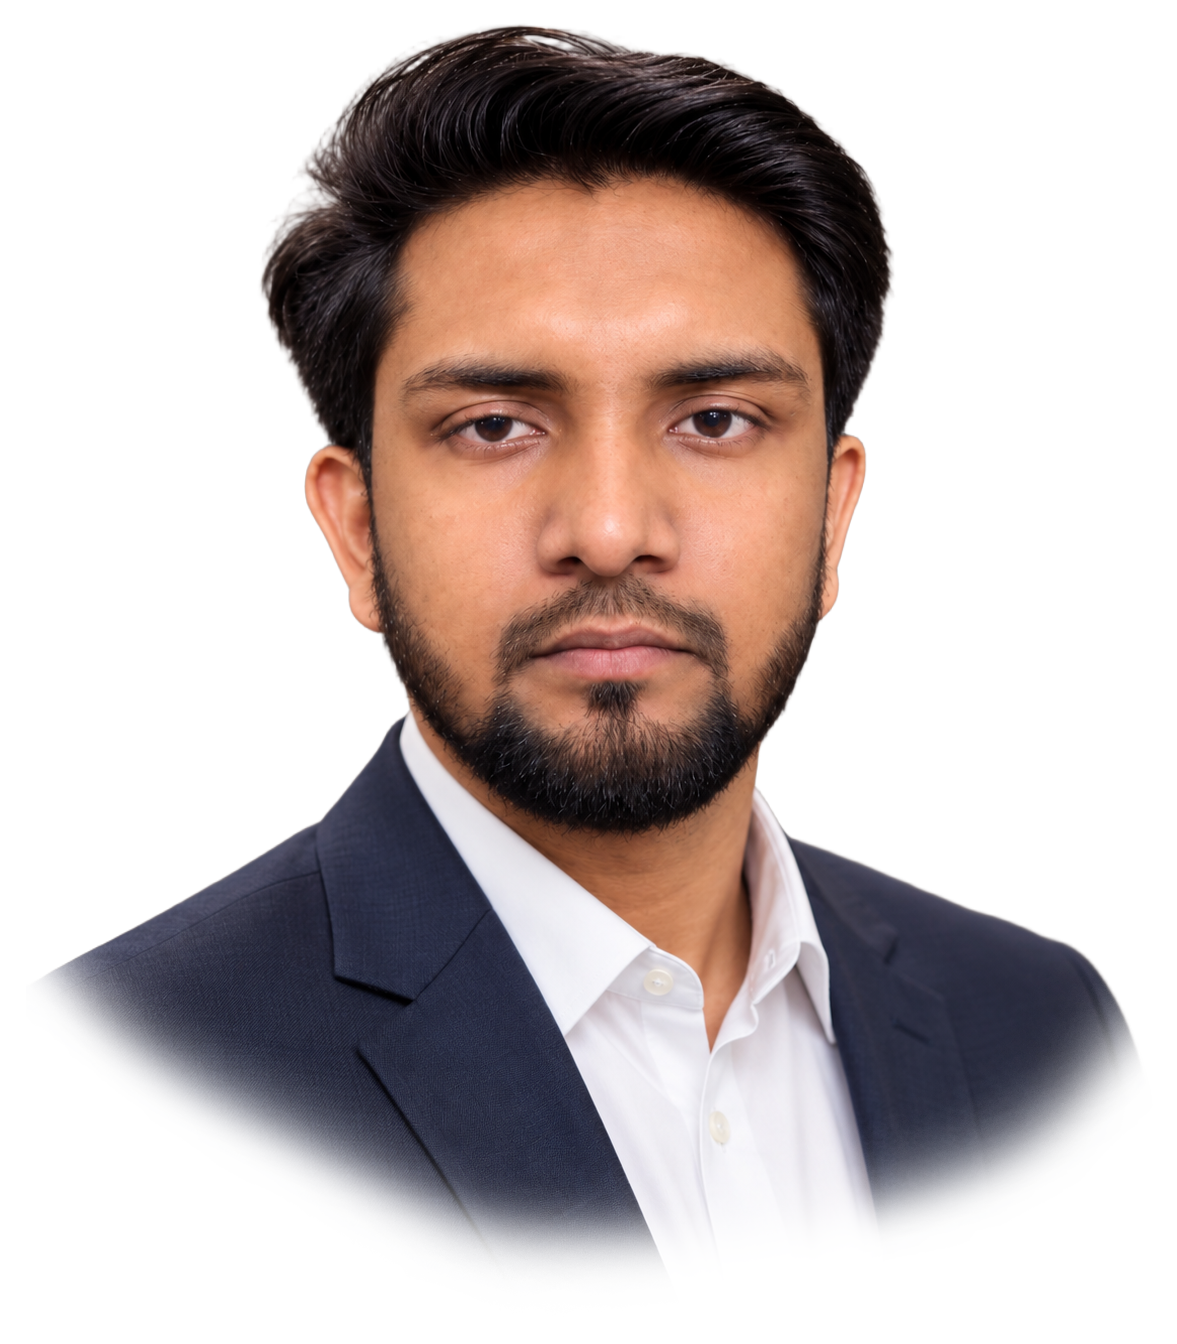
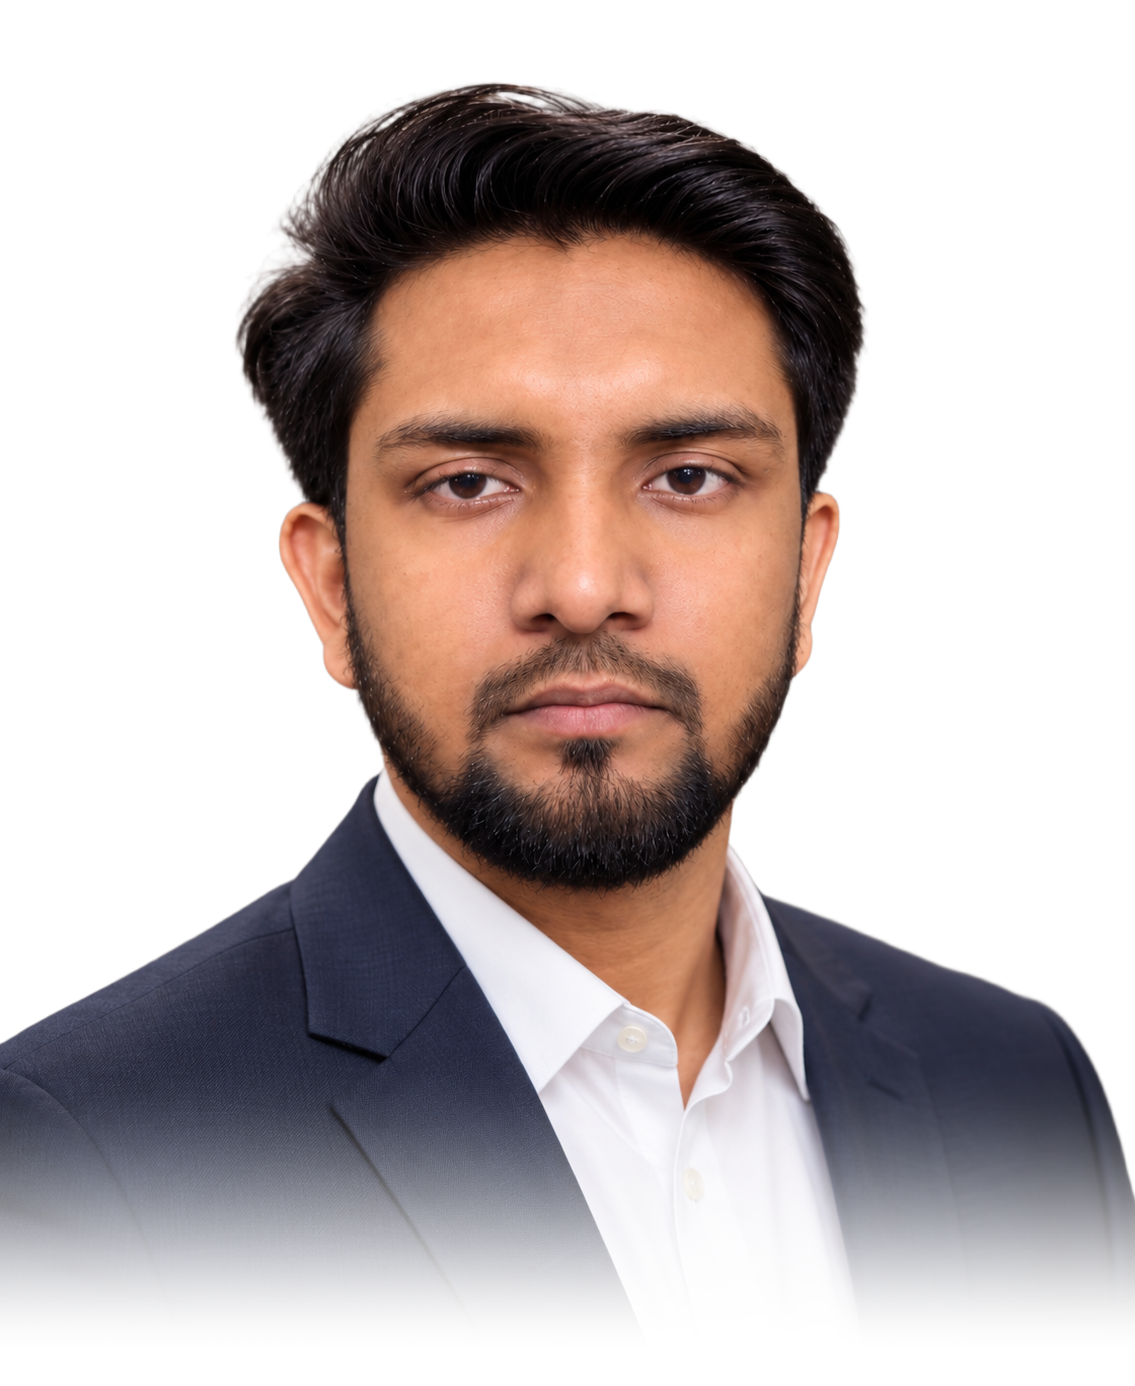
V1.0

diff --git a/style.css b/style.css
@@ -98,12 +98,12 @@ body.is-loading > :not(.loader):not(.skip-link){visibility:hidden}
 .brand{color:var(--text);text-decoration:none;font:700 20px Space Grotesk,sans-serif;letter-spacing:-.03em}
 .brand span{color:var(--cyan)}
 .header-actions,.site-nav{display:flex;align-items:center}
-.site-nav a{
+.site-nav :is(a,button){
   padding:9px 8px;color:var(--muted);text-decoration:none;
   font:700 9px Space Grotesk,sans-serif;letter-spacing:.08em;
   white-space:nowrap;transition:color .2s ease;
 }
-.site-nav a:hover,.site-nav a.active{color:var(--cyan)}
+.site-nav :is(a,button):hover,.site-nav :is(a,button).active{color:var(--cyan)}
 .site-nav i{width:18px;height:1px;background:linear-gradient(90deg,rgba(105,217,255,.2),rgba(105,217,255,.7))}
 .theme-toggle{
   width:38px;height:38px;margin-left:12px;border:1px solid var(--line);border-radius:50%;
@@ -267,7 +267,7 @@ footer{
   .brand{font-size:14px}
   .theme-toggle{width:31px;height:31px;margin-left:5px}
   .theme-toggle svg{width:15px;height:15px}
-  .site-nav a{padding:6px 3px;font-size:6.8px;letter-spacing:.035em}
+  .site-nav :is(a,button){padding:6px 3px;font-size:6.8px;letter-spacing:.035em}
   .site-nav i{width:5px}
   .section{padding:84px 0}
   .section-heading{margin-bottom:25px}
@@ -287,7 +287,7 @@ footer{
 }
 @media(max-width:430px){
   .container{width:calc(100% - 34px)}
-  .site-nav a{font-size:6.2px;padding-inline:2px}
+  .site-nav :is(a,button){font-size:6.2px;padding-inline:2px}
   .site-nav i{width:3px}
   .hero{padding-top:94px}
   .hero h1{font-size:clamp(49px,15.5vw,68px)}
@@ -518,7 +518,7 @@ body.light .hero-photo{filter:none!important}
 .hero-copy{padding-left:clamp(0px,1vw,18px)!important}
 
 /* Navigation readability + FIVERR label. */
-.site-nav a{font-size:10.5px!important;letter-spacing:.075em!important;padding-inline:9px!important}
+.site-nav :is(a,button){font-size:10.5px!important;letter-spacing:.075em!important;padding-inline:9px!important}
 
 /* No arrow UI. */
 .case-study-link{gap:0!important}
@@ -555,10 +555,10 @@ body.light .hero-photo{filter:none!important}
  .hero-copy{padding-left:0!important}
  .hero-photo-wrap{justify-content:center!important}
  .hero-photo{width:min(82vw,500px)!important}
- .site-nav a{font-size:8.4px!important;padding-inline:4px!important}
+ .site-nav :is(a,button){font-size:8.4px!important;padding-inline:4px!important}
 }
 @media(max-width:430px){
- .site-nav a{font-size:7.4px!important;letter-spacing:.035em!important;padding-inline:2px!important}
+ .site-nav :is(a,button){font-size:7.4px!important;letter-spacing:.035em!important;padding-inline:2px!important}
  .site-nav i{width:4px!important}
  .gig-topline{align-items:center;gap:10px}
  .gig-availability{font-size:7.5px}
@@ -569,7 +569,7 @@ body.light .hero-photo{filter:none!important}
 html,body,a,button,[role="button"],.brand,.site-nav,.site-nav *,.hero,.hero *{
   -webkit-tap-highlight-color:transparent;
 }
-.brand,.site-nav a,.hero h1,.hero h1 *,.hero-kicker{
+.brand,.site-nav :is(a,button),.hero h1,.hero h1 *,.hero-kicker{
   -webkit-touch-callout:none;
   -webkit-user-select:none;
   user-select:none;
@@ -578,6 +578,51 @@ a:focus:not(:focus-visible),button:focus:not(:focus-visible),[role="button"]:foc
   outline:none;
 }
 a:focus-visible,button:focus-visible,[role="button"]:focus-visible{
+  outline:2px solid currentColor;
+  outline-offset:4px;
+}
+
+/* Mobile interaction hardening: no tap rectangle, no accidental text-selection flash. */
+*{
+  -webkit-tap-highlight-color:transparent;
+}
+.site-nav button{
+  appearance:none;
+  -webkit-appearance:none;
+  border:0;
+  margin:0;
+  padding:0;
+  background:none;
+  color:inherit;
+  font:inherit;
+  letter-spacing:inherit;
+  cursor:pointer;
+}
+.site-header,
+.site-header *,
+.hero h1,
+.hero h1 *,
+.hero-kicker,
+.loader,
+.loader *,
+.section-kicker,
+.section-title,
+.section-title *{
+  -webkit-touch-callout:none;
+  -webkit-user-select:none;
+  user-select:none;
+}
+.site-nav button:active,
+.site-nav button:focus:not(:focus-visible),
+.brand:active,
+.hero h1:active,
+.hero h1 *:active,
+.loader:active,
+.loader *:active{
+  outline:none;
+  box-shadow:none;
+}
+.site-nav button:focus-visible{
   outline:2px solid currentColor;
   outline-offset:4px;
 }

diff --git a/index.html b/index.html
@@ -101,11 +101,11 @@
 <div class="brand" aria-label="Nazmul Islam Fahim">NAZMUL<span>.</span></div>
 <div class="header-actions">
 <nav aria-label="Primary navigation" class="site-nav">
-<a data-nav="home" href="./" data-scroll-target="home">HOME</a><i></i>
-<a href="./" data-scroll-target="portfolio">PORTFOLIO</a><i></i>
-<a href="./" data-scroll-target="fiverr">FIVERR</a><i></i>
-<a href="./" data-scroll-target="about">ABOUT</a><i></i>
-<a href="./" data-scroll-target="contact">CONTACT</a>
+<button type="button" data-nav="home"  data-scroll-target="home">HOME</button><i></i>
+<button type="button"  data-scroll-target="portfolio">PORTFOLIO</button><i></i>
+<button type="button"  data-scroll-target="fiverr">FIVERR</button><i></i>
+<button type="button"  data-scroll-target="about">ABOUT</button><i></i>
+<button type="button"  data-scroll-target="contact">CONTACT</button>
 </nav>
 <button aria-label="Switch to light theme" class="theme-toggle" id="themeToggle" title="Switch theme" type="button">
 <svg aria-hidden="true" class="sun" fill="none" stroke="currentColor" stroke-width="1.8" viewbox="0 0 24 24"><circle cx="12" cy="12" r="3.5"></circle><path d="M12 2v2M12 20v2M4.93 4.93l1.42 1.42M17.65 17.65l1.42 1.42M2 12h2M20 12h2M4.93 19.07l1.42-1.42M17.65 6.35l1.42-1.42"></path></svg>

diff --git a/script.js b/script.js
@@ -58,15 +58,14 @@ themeToggle.addEventListener('click', () => {
 });
 
 /* Navigation */
-const navLinks = $$('.site-nav a[data-scroll-target]');
+const navLinks = $$('.site-nav [data-scroll-target]');
 const sections = ['home','portfolio','fiverr','about','contact']
   .map(id => document.getElementById(id))
   .filter(Boolean);
 const sectionLinkMap = new Map(navLinks.map(link => [link.dataset.scrollTarget, link]));
 
 navLinks.forEach(link => {
-  link.addEventListener('click', event => {
-    event.preventDefault();
+  link.addEventListener('click', () => {
     const targetId = link.dataset.scrollTarget;
     const section = document.getElementById(targetId);
     if (!section) return;
@@ -78,10 +77,6 @@ navLinks.forEach(link => {
         behavior:reduceMotion ? 'auto' : 'smooth',
         block:'start'
       });
-    }
-
-    if (location.hash) {
-      history.replaceState(null, '', location.pathname + location.search);
     }
   });
 });
